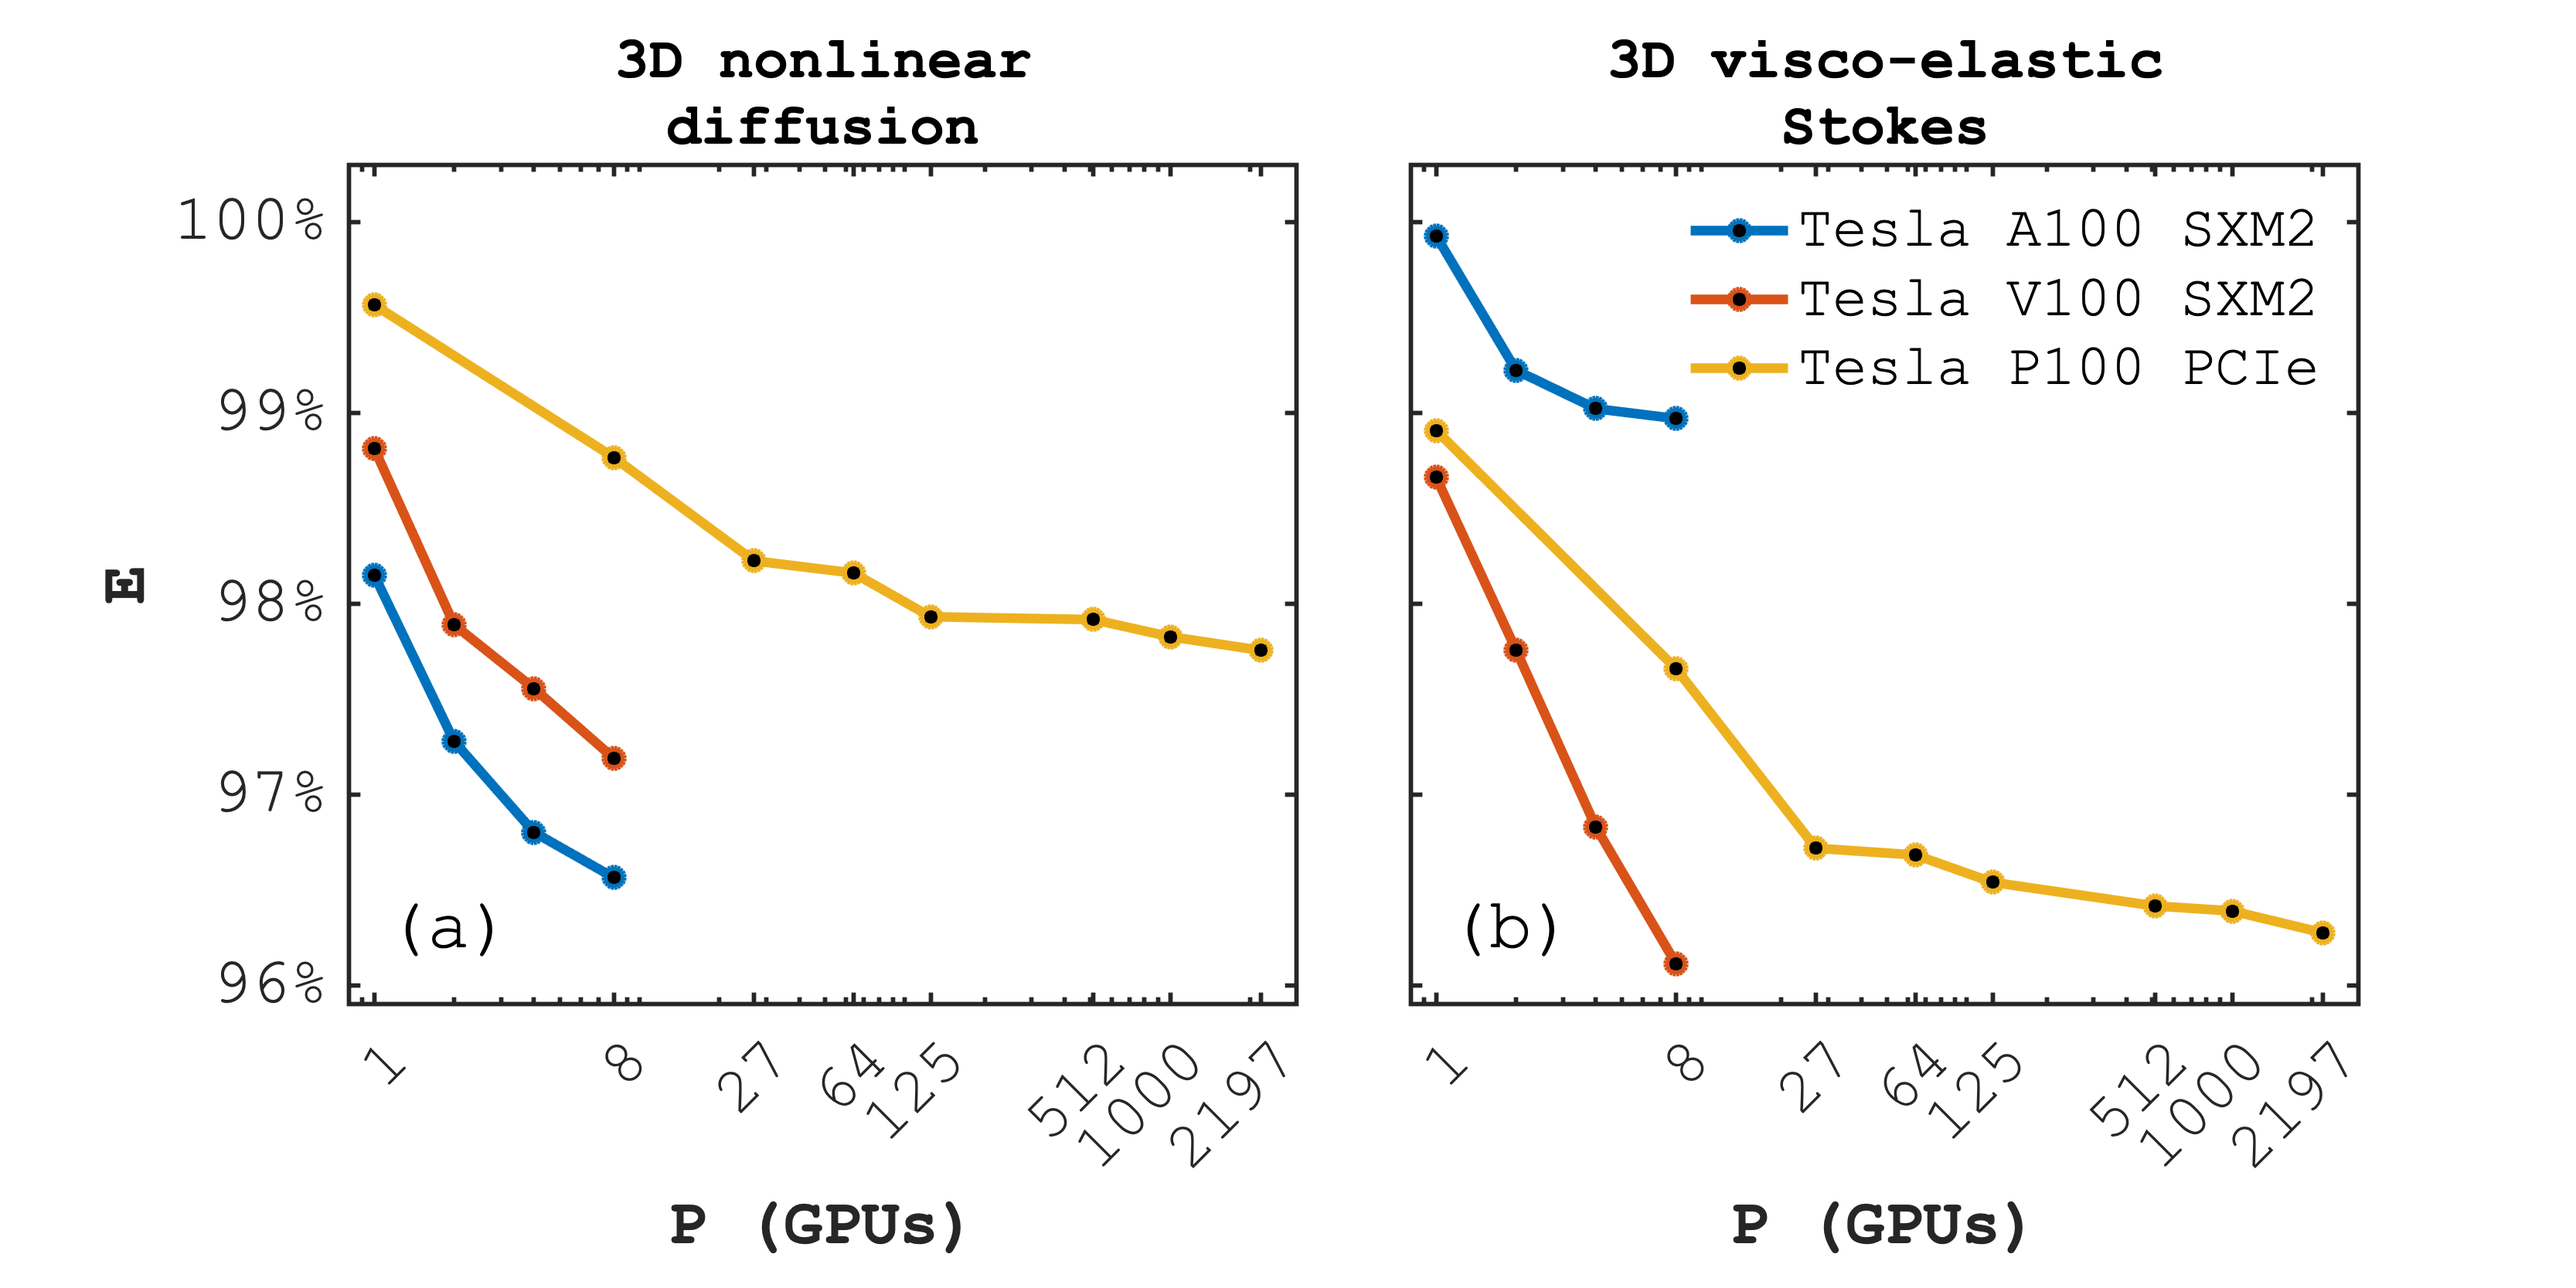
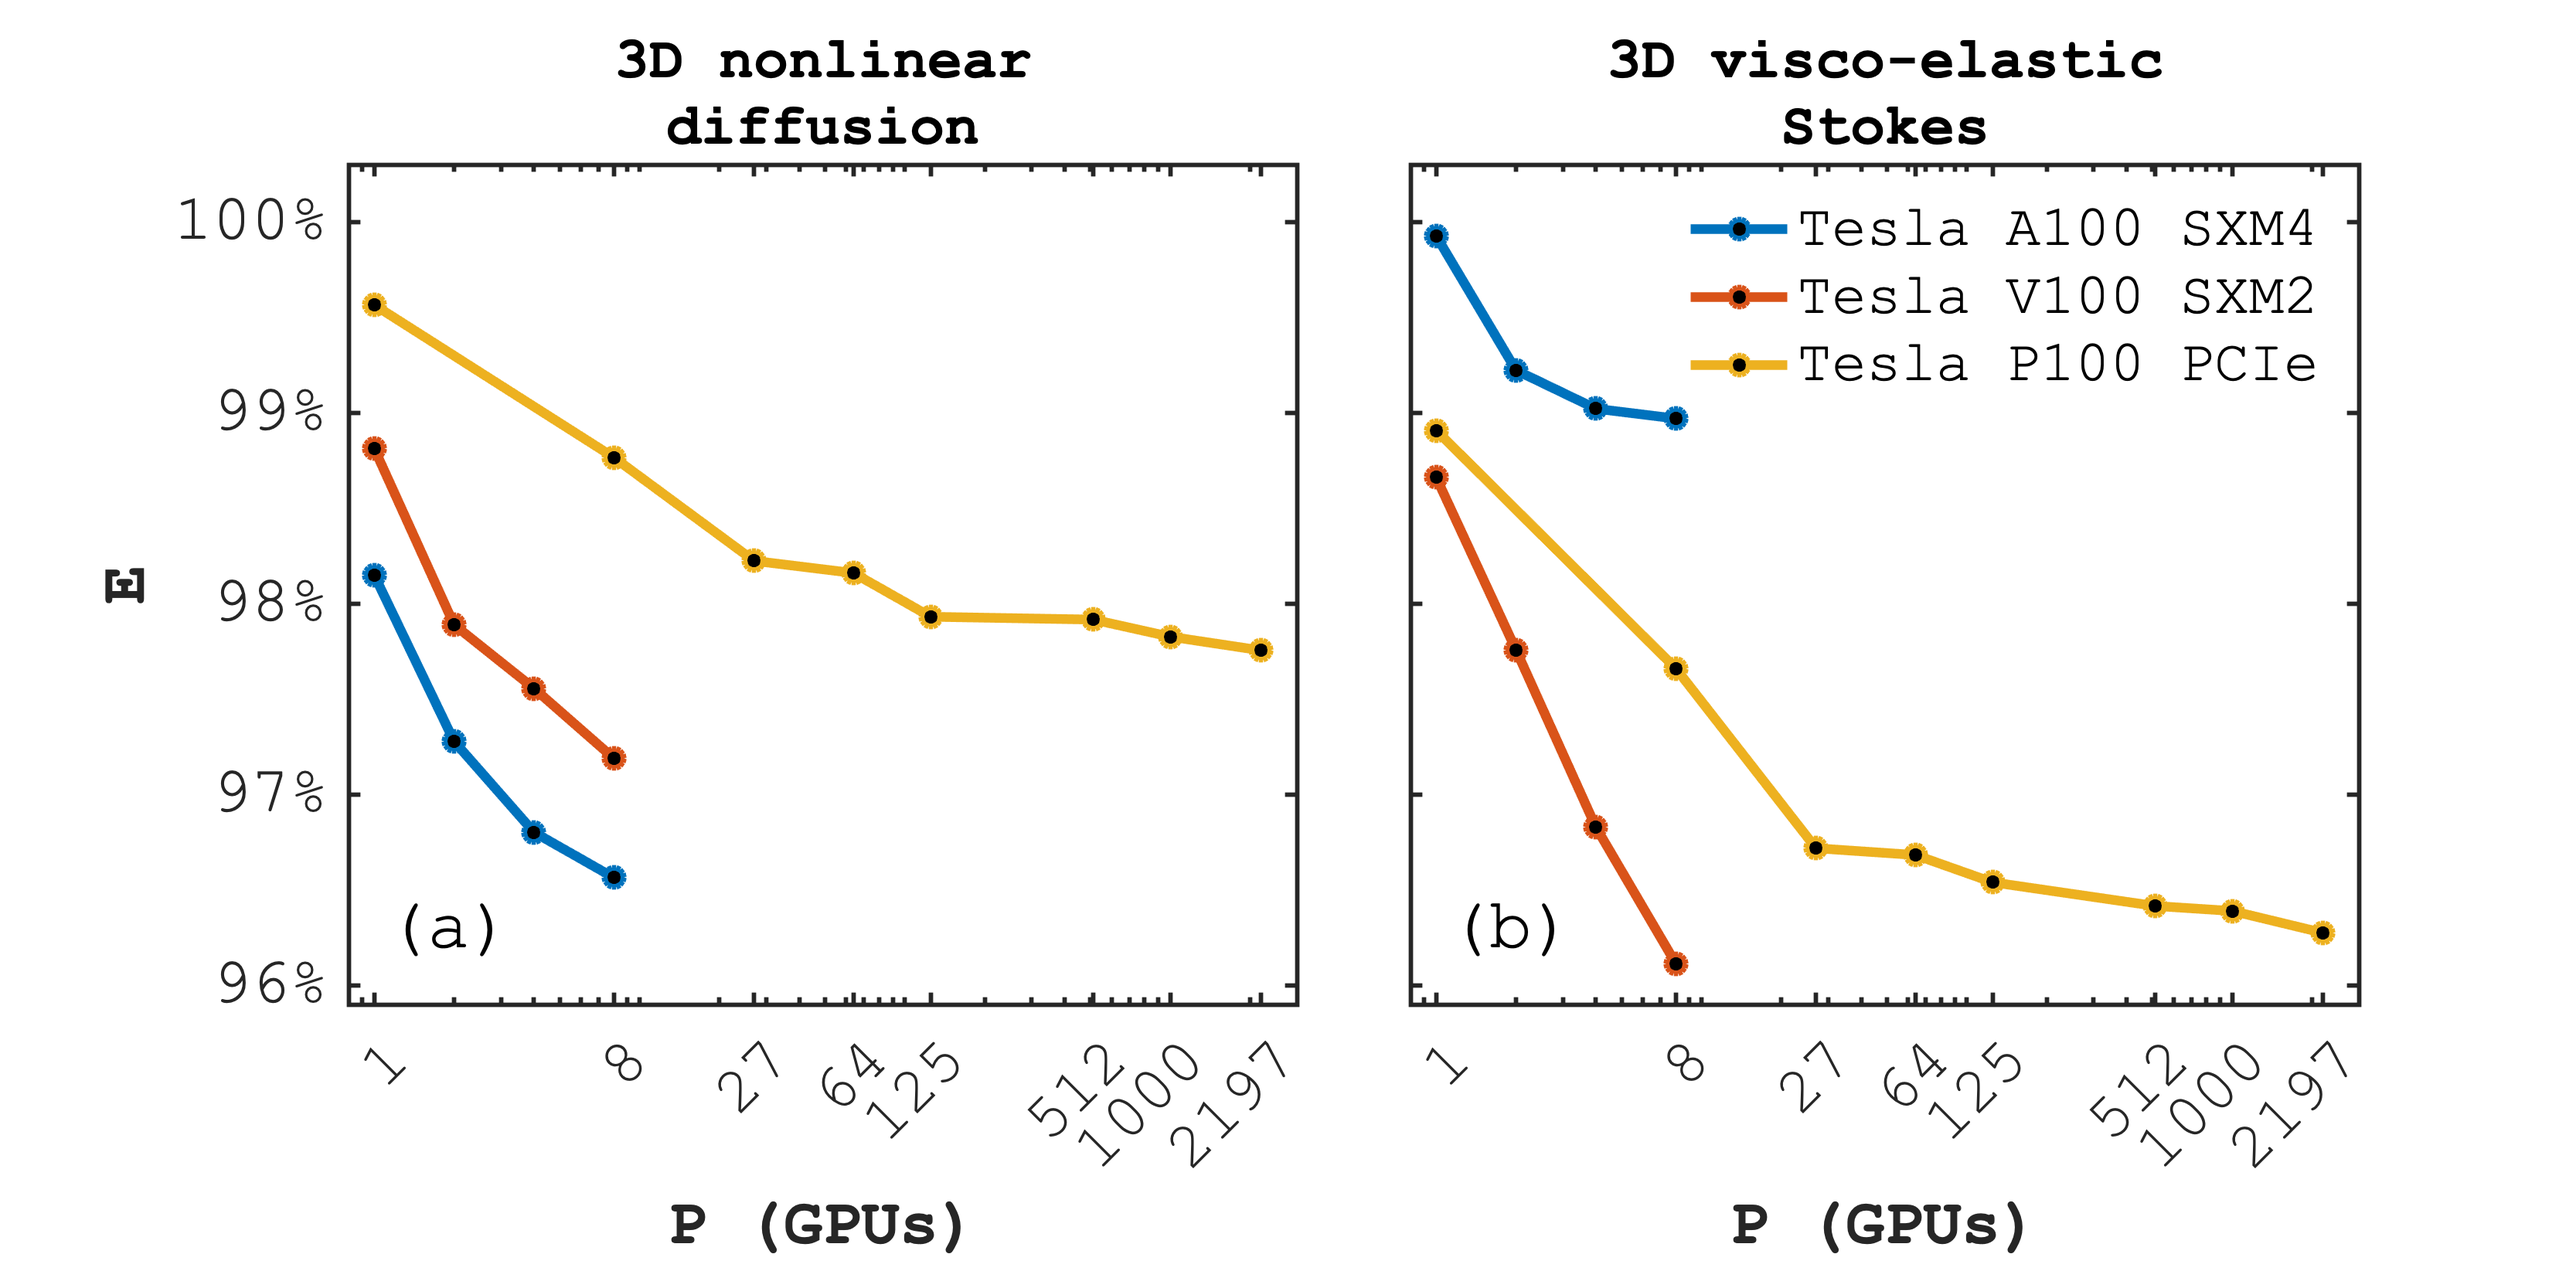
Correct A100 name.

diff --git a/visu/viz_perf.m b/visu/viz_perf.m
@@ -118,7 +118,7 @@ semilogx(diff_3D_volta_2(2,:),T_peak_ampere*ones(size(diff_3D_volta_2(2,:))),'k:
          'linewidth',1.5, 'MarkerFaceColor','k')
 hold off
 title({'3D nonlinear'; 'diffusion'},'fontsize',FS-2)
-lg=legend('Tesla A100 SXM2', 'Tesla V100 SXM2', 'Tesla P100 PCIe'); set(lg,'box','off')
+lg=legend('Tesla A100 SXM4', 'Tesla V100 SXM2', 'Tesla P100 PCIe'); set(lg,'box','off')
 ylim(mylim)
 xlim(mylimx)
 set(gca, 'XTick',diff_3D_volta_2(2,:), 'YTicklabel',[])
@@ -163,7 +163,7 @@ semilogx(stokes_3D_mxpu_ampere_2(1,:),stokes_3D_mxpu_ampere_2(end,:)./single_amp
      'linewidth',3, 'MarkerFaceColor','k'),set(gca, 'fontsize',FS, 'linewidth',1.4)
 title({'3D visco-elastic'; 'Stokes'},'fontsize',FS-2)
 % ylabel({' ';'\bf{E}'}, 'fontsize',FS)
-lg=legend('Tesla A100 SXM2', 'Tesla V100 SXM2', 'Tesla P100 PCIe'); set(lg,'box','off')
+lg=legend('Tesla A100 SXM4', 'Tesla V100 SXM2', 'Tesla P100 PCIe'); set(lg,'box','off')
 ylim(mylim2)
 xlim(mylimx2)
 set(gca, 'XTick',stokes_3D_mxpu_daint_2(1,:), 'YTicklabel',[])
